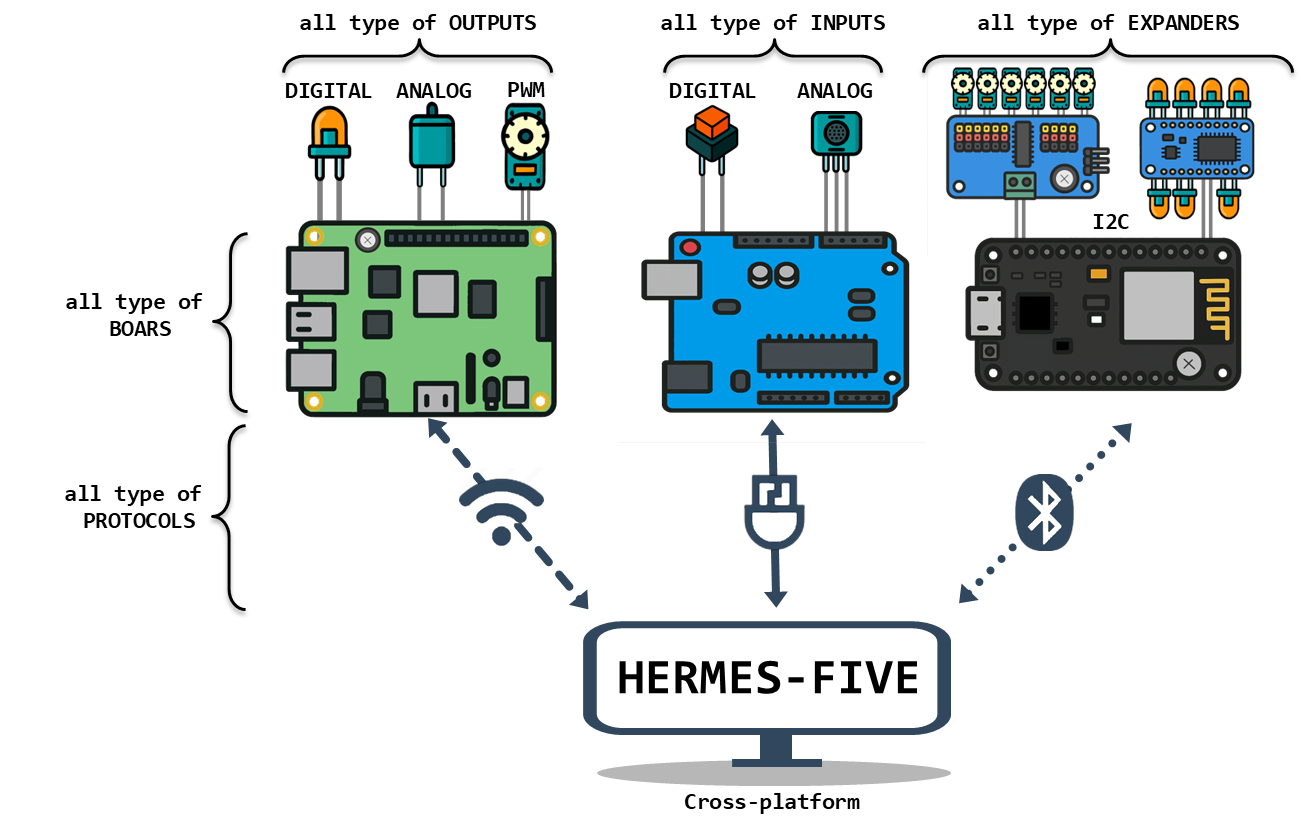
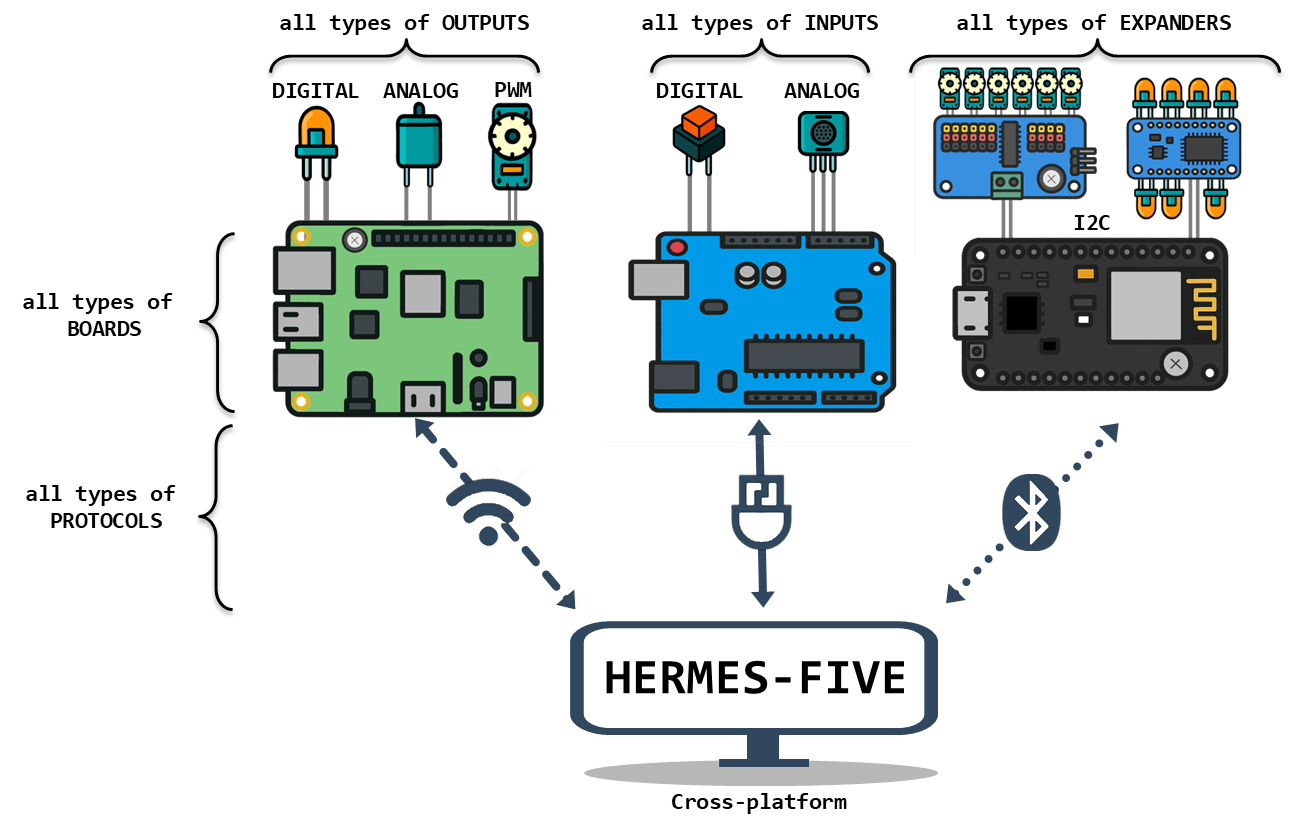
Fix typo in README schema.

diff --git a/README.md b/README.md
@@ -12,12 +12,13 @@
 
 ### The Rust Robotics & IoT Framework
 
-<img align="right" height="200" style="height:200px" alt="Schema sample of blinking led using Arduino UNO" src="/docs/public/schemas/overall.png?raw=true" />
-
 **Drive and orchestrate Arduinos, ESPs, nodeMCU, RaspberryPis and all kind of [Firmata-compatible](https://github.com/firmata) hardware in pure async Rust.
 Control LEDs, sensors, motors from your laptop with the safety and speed of Rust.**
 
 _Program robots and embedded devices with confidence. Hermes-Five gives you high-level APIs to remotely control boards (Arduino, ESP, nodeMCU, RaspberryPI, ..), extenders (PCA9685, PCF8575, ..) LEDs, sensors, servos and more, all from safe and asynchronous Rust code. Think _Johnny-Five_, but safer, faster, and fully async._
+
+<img align="center" style="margin:20px 0;" alt="Schema sample of blinking led using Arduino UNO" src="/docs/public/schemas/overall.png?raw=true" />
+
 
 ## Documentation
 
